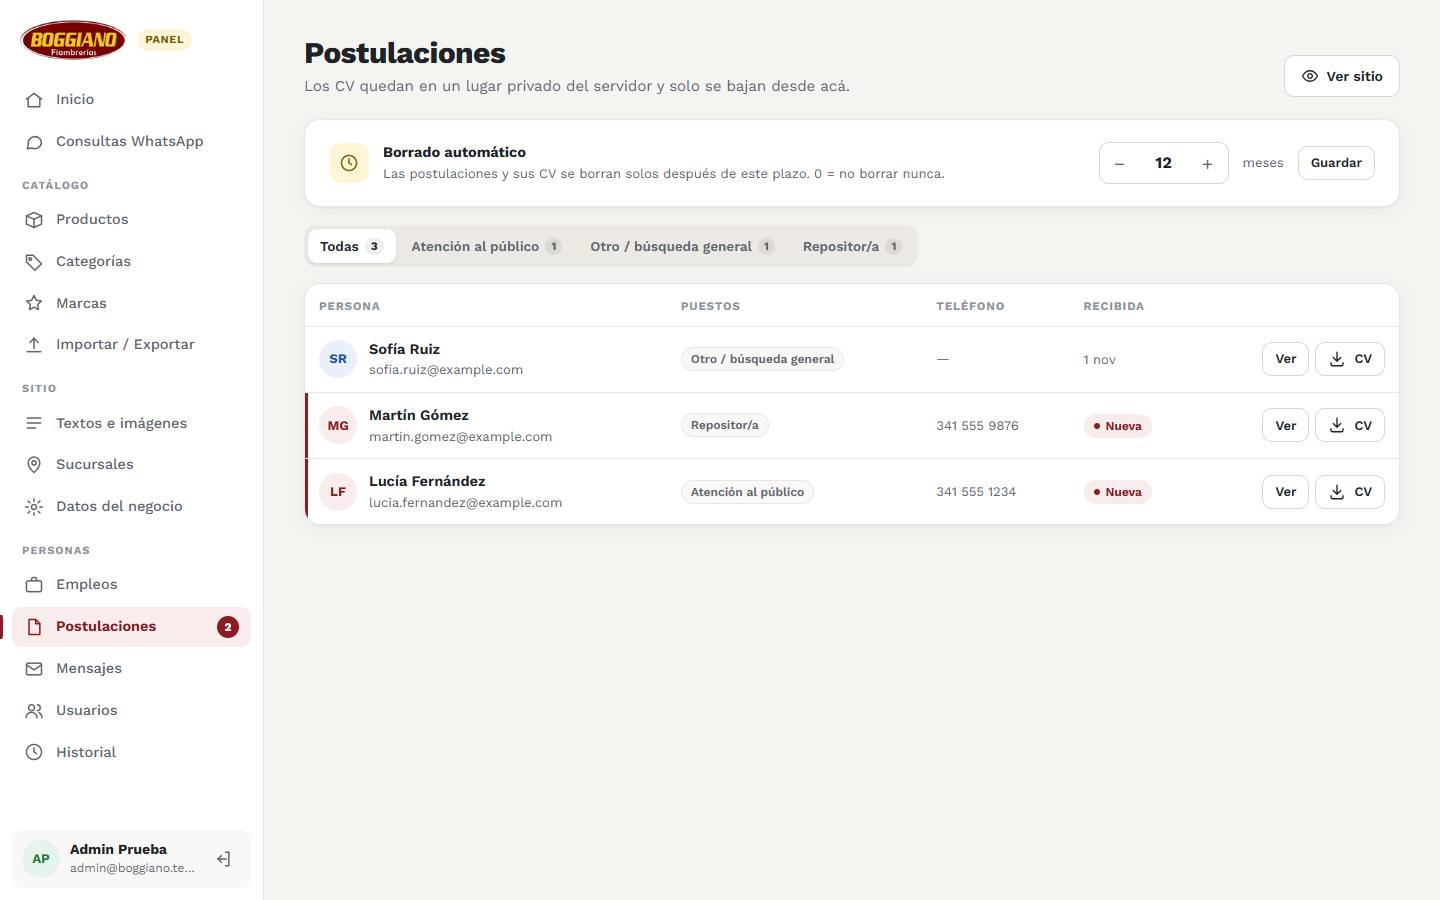
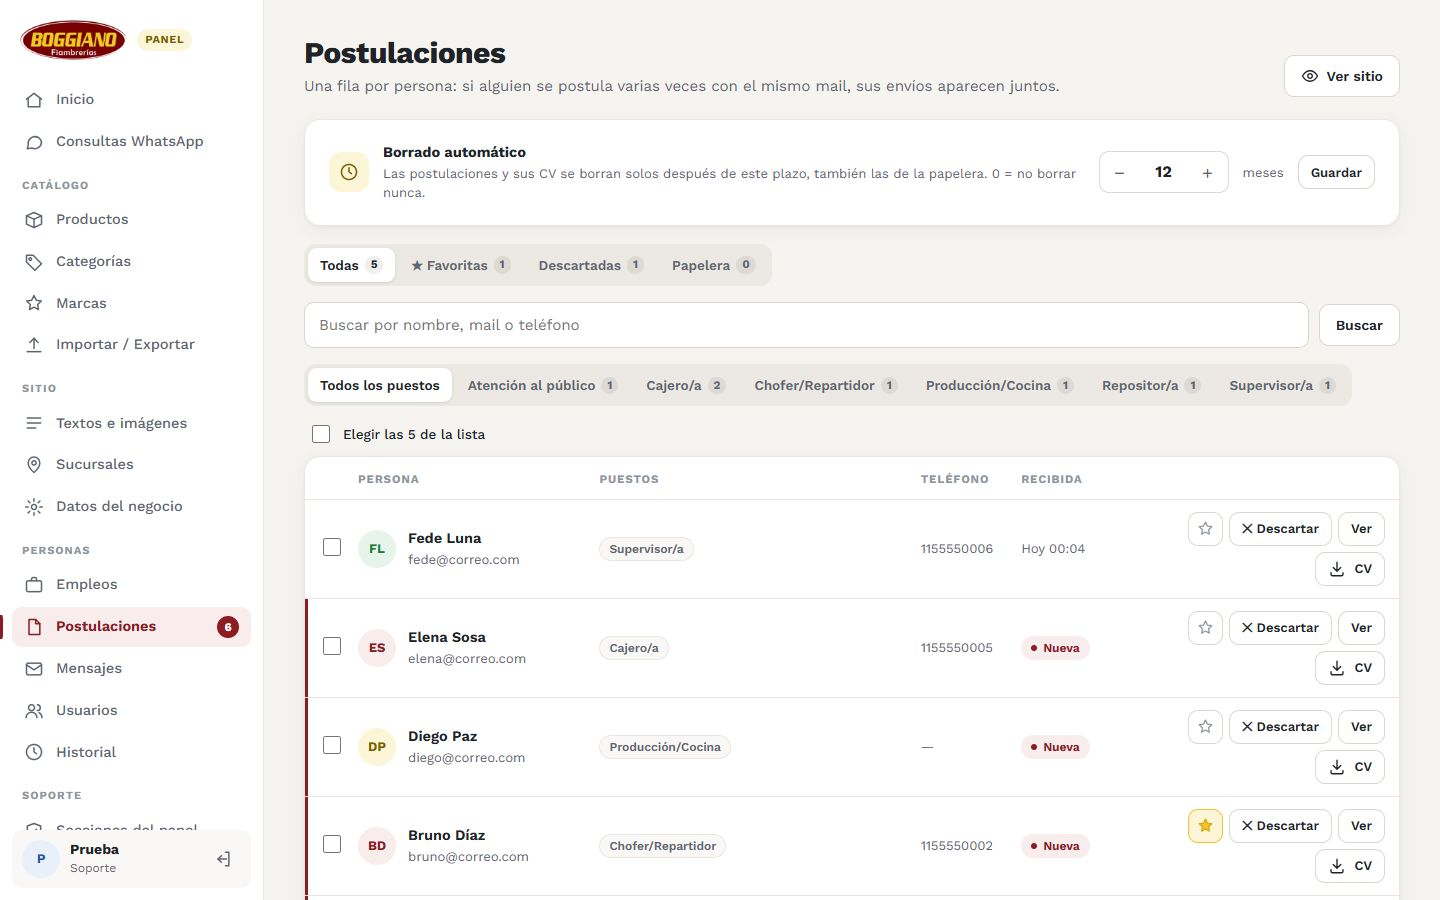
Guía: Postulaciones agrupadas por persona, favoritas, descartadas, papelera y selección múltiple

diff --git a/guia/08-empleos-y-postulaciones.md b/guia/08-empleos-y-postulaciones.md
@@ -37,15 +37,49 @@ Quien se postula puede marcar **varios puestos a la vez**: por ejemplo, Cajero/a
 
 ## Postulaciones
 
-**En el panel:** menú **Postulaciones**. El número rojo indica cuántas no abriste todavía.
+**En el panel:** menú **Postulaciones**. El número rojo indica cuántas no abriste todavía (sin contar las descartadas ni las de la papelera).
 
 ![Postulaciones](../img/postulaciones.jpg)
 
-- **Filtrar por puesto:** los botones de arriba. Una postulación a varios puestos cuenta en cada uno: la de Cajero/a, Atención al público y Repositor/a aparece en esas tres pestañas. En Empleos, el número de postulaciones de cada tarjeta cuenta igual (tocalo para ver esas postulaciones).
-- **Ver:** abre el detalle, con nombre, mail, teléfono, puestos elegidos, experiencia, fecha y el CV. Al abrirla, se marca como leída.
-- **CV:** lo descarga directamente.
-- **Marcar como no leída:** para acordarte de volver a verla.
-- **Borrar postulación y CV:** borra los dos. **No se puede deshacer.**
+**Una fila por persona.** Si alguien se postula varias veces con el mismo mail (aunque lo escriba con mayúsculas o espacios distintos), sus envíos aparecen juntos en una sola fila, con la marca **"×3 envíos"**. La fila muestra todos los puestos que eligió en sus envíos y se marca **Nueva** si alguno no lo abriste.
+
+- **Pestañas:** **Todas** (incluye las favoritas) · **★ Favoritas** · **Descartadas** · **Papelera**. El número de cada una cuenta personas.
+- **Buscar:** por nombre, mail o teléfono.
+- **Filtrar por puesto:** los botones debajo del buscador, dentro de la pestaña en la que estés. Una postulación a varios puestos cuenta en cada uno: la de Cajero/a, Atención al público y Repositor/a aparece en esas tres. En Empleos, el número de postulaciones de cada tarjeta cuenta igual (tocalo para ver esas postulaciones).
+- **★ (estrella):** la suma a Favoritas. Tocala de nuevo para sacarla. No recarga la página.
+- **✕ Descartar:** la pasa a Descartadas, sin borrarla. Ya no aparece en Todas. Desde Descartadas, **Recuperar** la devuelve.
+- **Ver:** abre el detalle. Al abrirlo, se marcan como leídos todos sus envíos.
+- **CV:** descarga el CV del envío más nuevo.
+
+### Elegir varias a la vez
+
+Cada fila tiene una casilla a la izquierda, y arriba de la lista está **"Elegir las N de la lista"** para marcarlas todas (con el buscador o un puesto elegido, marca sólo las que se ven). Al marcar alguna aparece abajo una barra con lo que podés hacer con todas juntas:
+
+![Barra para varias postulaciones](../img/postulaciones-lote.jpg)
+
+- **★ Favorita** / **Quitar ★**
+- **✕ Descartar** (en Descartadas, **Recuperar**)
+- **Marcar leídas**
+- **A la papelera**
+- **Ninguna:** desmarca todo.
+
+Lo que hagas se aplica a **todos los envíos** de cada persona elegida.
+
+### Detalle de una persona
+
+![Detalle con varios envíos](../img/postulaciones-detalle.jpg)
+
+Arriba, los datos del envío más nuevo y los botones **Favorita**, **Descartar**, **Marcar como no leída** y **Mandar a la papelera**. Abajo, **cada envío por separado**, con su fecha, sus puestos, su experiencia y **su CV**. Si una persona mandó el mismo CV dos veces, **"Este envío"** manda a la papelera sólo ese envío y deja los demás.
+
+### Papelera
+
+![Papelera](../img/postulaciones-papelera.jpg)
+
+- **Nada se borra al mandarlo a la papelera:** queda ahí, con su CV, hasta que vos decidas.
+- **Recuperar:** la devuelve a Postulaciones (o a Descartadas, si estaba descartada).
+- **Borrar para siempre:** desde la casilla de cada fila o desde el detalle. Borra la postulación y su CV. **No se puede deshacer.**
+- **Vaciar papelera:** el botón de arriba a la derecha borra para siempre todo lo que hay en la papelera.
+- Si alguien que está en la papelera se vuelve a postular, el envío nuevo aparece en Postulaciones como cualquier otro.
 
 ### Cómo llega una postulación
 
@@ -53,9 +87,10 @@ Quien se postula puede marcar **varios puestos a la vez**: por ejemplo, Cajero/a
    - **Si algo falla al enviar,** el cartel dice qué pasó: que se cortó la conexión, que el celular no dejó abrir el archivo (entonces hay que descargarlo al teléfono y elegirlo de nuevo) o que hubo un error del servidor.
 2. **El sitio revisa que el archivo sea de verdad lo que dice ser.** Un archivo que no es PDF, Word ni una foto, aunque tenga ese nombre, se rechaza.
 3. **La postulación queda en el panel** y **llega por mail** a la casilla de CV de [Datos del negocio](02-datos-del-negocio.md), con el CV adjunto. Si el mail falla por algún motivo, igual queda en el panel.
+4. **Si ya se había postulado con ese mail,** el mail avisa qué número de envío es, y en el panel el envío nuevo se junta con los anteriores. Si la tenías en Favoritas o en Descartadas, sigue ahí.
 
 ### Datos personales
 
 - **Dónde quedan los CV:** en un lugar **privado** del servidor. No se pueden abrir desde internet: solo se descargan desde el panel.
-- **Ley 25.326:** los CV son datos personales protegidos por la Ley de Protección de Datos Personales. Si alguien pide que borren sus datos, borrá su postulación.
-- **Borrado automático:** arriba de la lista de Postulaciones, en el recuadro **Borrado automático**, elegís con **−** y **+** cada cuántos meses se borran solas las postulaciones viejas, con su CV. Viene en **12 meses**, y **0** es no borrar nunca. Se hace sola una vez por día, la primera vez que alguien entra al panel. Al guardar un plazo nuevo, se borran en el momento las que ya lo superaron.
+- **Ley 25.326:** los CV son datos personales protegidos por la Ley de Protección de Datos Personales. Si alguien pide que borren sus datos, mandá su postulación a la papelera y borrala para siempre desde ahí.
+- **Borrado automático:** arriba de la lista de Postulaciones, en el recuadro **Borrado automático**, elegís con **−** y **+** cada cuántos meses se borran solas las postulaciones viejas, con su CV, **también las que están en la papelera**. Viene en **12 meses**, y **0** es no borrar nunca. Se hace sola una vez por día, la primera vez que alguien entra al panel. Al guardar un plazo nuevo, se borran en el momento las que ya lo superaron.

diff --git a/README.md b/README.md
@@ -63,6 +63,8 @@ Hoy el sitio está publicado pero con **datos de ejemplo**. En este orden:
 | Qué sucursal sale destacada en Inicio | Sucursales: la primera visible (orden más bajo) | [06](guia/06-sucursales.md) |
 | Los logos de las marcas | Marcas | [07](guia/07-marcas.md) |
 | Las búsquedas de empleo / ver CV | Empleos · Postulaciones | [08](guia/08-empleos-y-postulaciones.md) |
+| Marcar favoritas, descartar o mandar varias postulaciones a la papelera | Postulaciones (casillas y ★) | [08](guia/08-empleos-y-postulaciones.md#elegir-varias-a-la-vez) |
+| Recuperar o borrar para siempre postulaciones | Postulaciones → Papelera | [08](guia/08-empleos-y-postulaciones.md#papelera) |
 | Cuántos puestos puede elegir quien se postula | Empleos (arriba de la lista) | [08](guia/08-empleos-y-postulaciones.md#postularse-a-varios-puestos) |
 | Responder una consulta | Mensajes | [09](guia/09-mensajes.md) |
 | Un texto de cualquier página, los sellos, la etiqueta sobre la foto, el logo, las fotos grandes, la portada con o sin foto | Textos e imágenes | [10](guia/10-textos-e-imagenes.md) |
